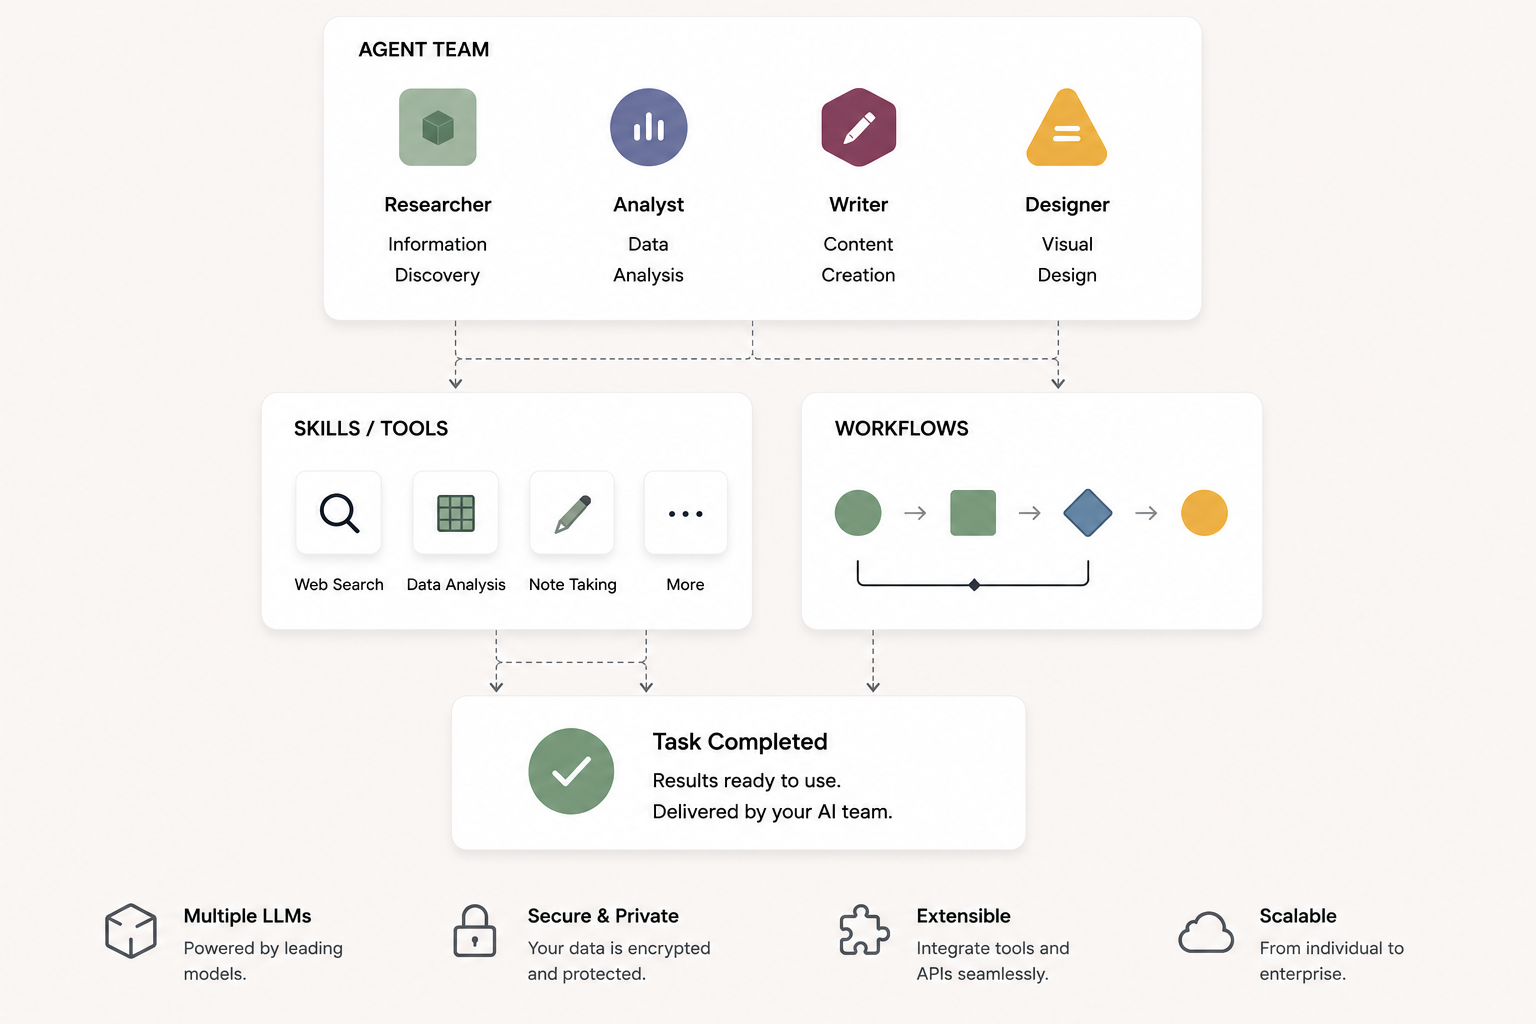
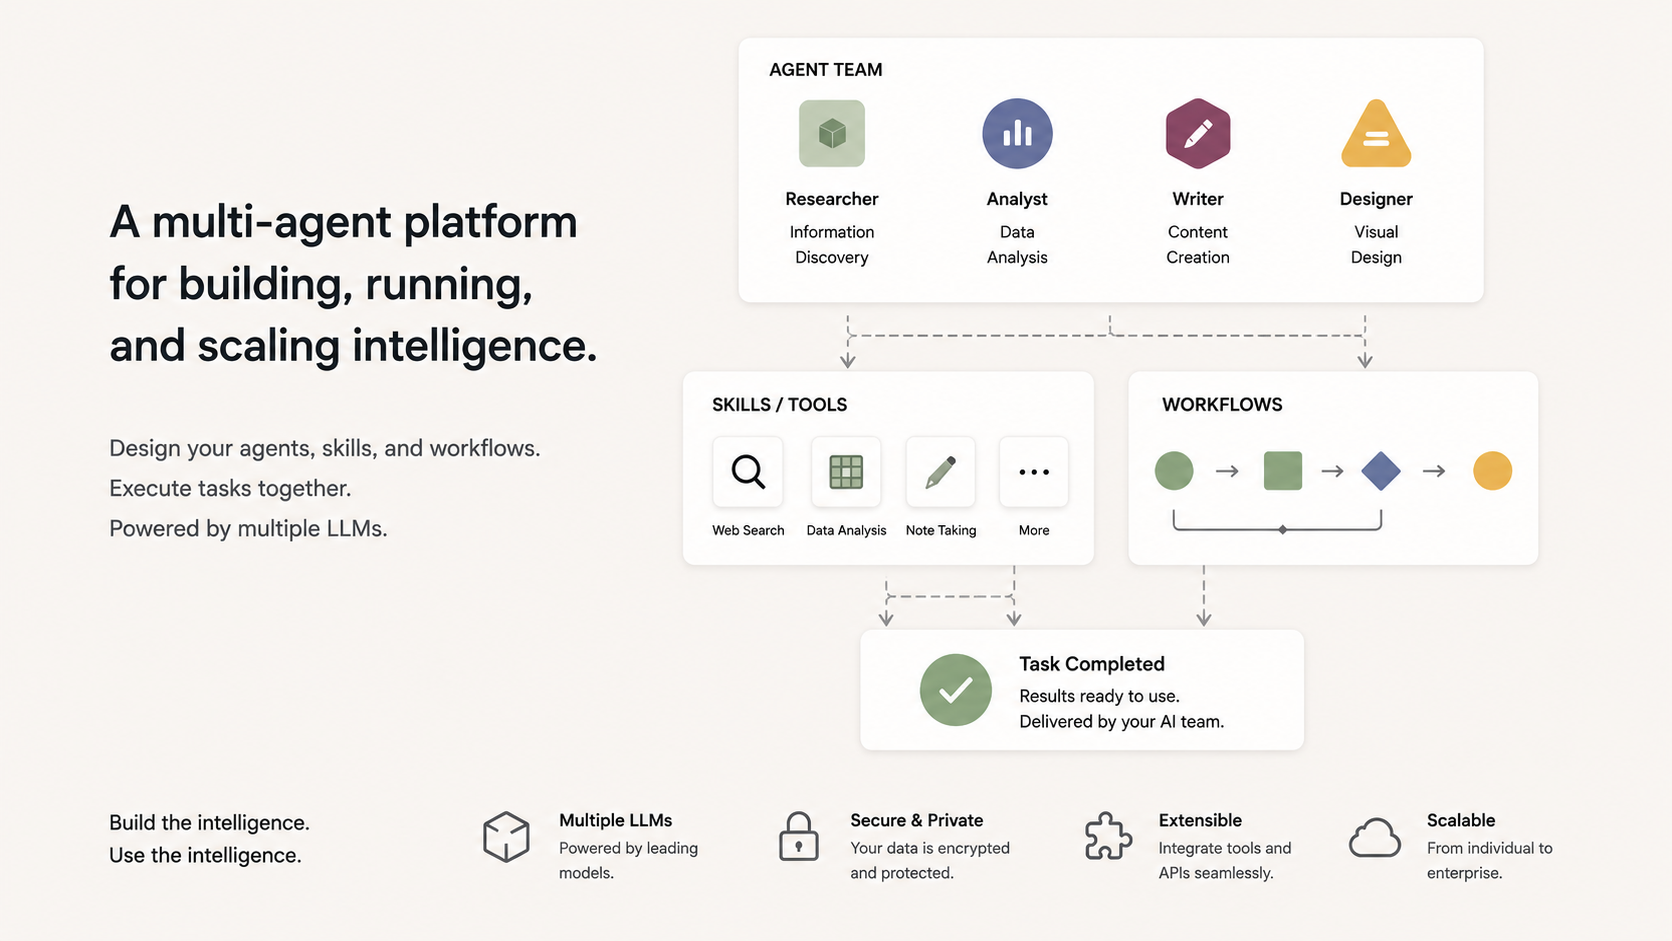
feat(client): 优化登录页 UI，新增 Welcome 标语与底部品牌文案，替换背景图

diff --git a/client/src/Login.tsx b/client/src/Login.tsx
@@ -46,43 +46,53 @@ export default function Login({ onLoginSuccess }: LoginProps) {
 
   return (
     <div className="flex min-h-dvh w-full">
-      <div className="flex w-1/3 shrink-0 flex-col justify-center bg-background px-8">
-        <div className="mx-auto flex w-full max-w-xs flex-col gap-3">
-          <img
-            src="/OmniAge_Logo_4K.svg"
-            alt=""
-            className="mx-auto w-1/2 object-contain"
-          />
-          <div className="flex flex-col gap-4">
-            <Input
-              placeholder="用户名"
-              aria-label="用户名"
-              value={username}
-              onChange={(e) => setUsername(e.target.value)}
-              disabled={loading}
-            />
-            <Input
-              type="password"
-              placeholder="密码"
-              aria-label="密码"
-              value={password}
-              onChange={(e) => setPassword(e.target.value)}
-              disabled={loading}
-              onKeyDown={(e) => e.key === 'Enter' && handleSubmit()}
-            />
-            {error && (
-              <p className="text-sm text-destructive">{error}</p>
-            )}
-            <Button
-              type="button"
-              className="w-full"
-              onClick={handleSubmit}
-              disabled={loading}
-            >
-              {loading && <Loader2 className="animate-spin" />}
-              {loading ? '登录中...' : '登录'}
-            </Button>
+      <div className="flex w-1/3 shrink-0 flex-col bg-background px-8">
+        <div className="flex flex-1 flex-col">
+          <div className="flex flex-1 flex-col justify-center">
+            <div className="mx-auto flex w-full max-w-xs flex-col gap-3">
+              <p className="text-center text-sm font-semibold text-black -mb-7">
+                Welcome to login
+              </p>
+              <img
+                src="/OmniAge_Logo_4K.svg"
+                alt=""
+                className="mx-auto w-1/2 object-contain"
+              />
+              <div className="flex flex-col gap-4">
+                <Input
+                  placeholder="用户名"
+                  aria-label="用户名"
+                  value={username}
+                  onChange={(e) => setUsername(e.target.value)}
+                  disabled={loading}
+                />
+                <Input
+                  type="password"
+                  placeholder="密码"
+                  aria-label="密码"
+                  value={password}
+                  onChange={(e) => setPassword(e.target.value)}
+                  disabled={loading}
+                  onKeyDown={(e) => e.key === 'Enter' && handleSubmit()}
+                />
+                {error && (
+                  <p className="text-sm text-destructive">{error}</p>
+                )}
+                <Button
+                  type="button"
+                  className="w-full"
+                  onClick={handleSubmit}
+                  disabled={loading}
+                >
+                  {loading && <Loader2 className="animate-spin" />}
+                  {loading ? '登录中...' : '登录'}
+                </Button>
+              </div>
+            </div>
           </div>
+          <p className="pb-10 text-center text-sm font-semibold text-black">
+            Build the intelligence<br />Use the intelligence
+          </p>
         </div>
       </div>
       <div className="relative min-h-dvh w-2/3 shrink-0">